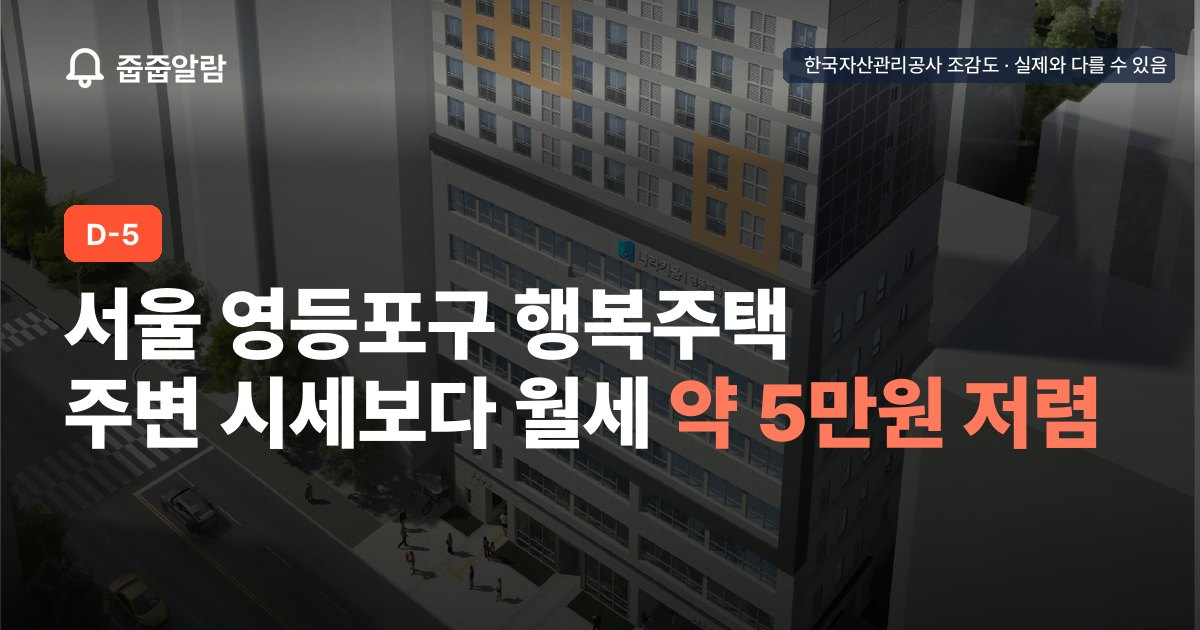
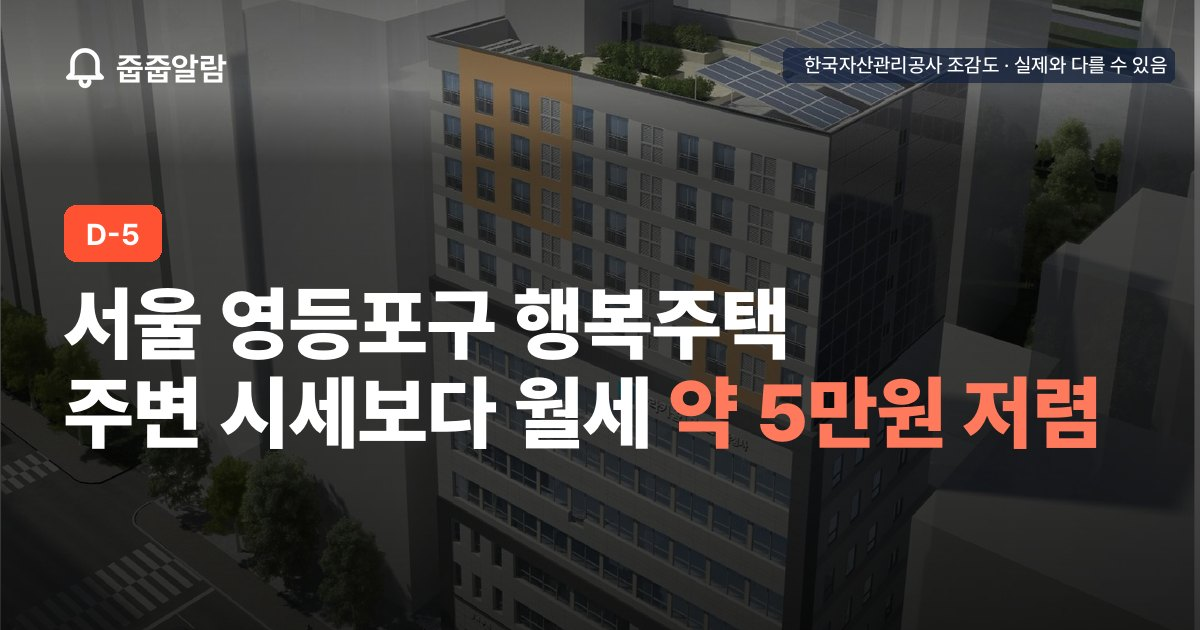
site: 예비입주자 공고 '공급 0세대' → '예비 모집', 영등포 표지 위치 조정
Claude-Session: https://claude.ai/code/session_01BX5Lyfw1Hj3UPpyFh8mqbq

diff --git a/site/public/apt/mh21471-1/index.html b/site/public/apt/mh21471-1/index.html
@@ -13,7 +13,7 @@
 <meta property="og:title" content="나라키움영등포복합청사 행복주택 21형 예비입주자 보증금·월세">
 <meta property="og:description" content="접수 11.9(월) ~ 11.13(금) · 보증금 4,650만원 · 월 22만5,000원 · 행복주택. 신청 자격·일정과 공식 공고 링크를 한 번에.">
 <meta property="og:url" content="https://jupjupalarm.com/apt/mh21471-1/">
-<meta property="og:image" content="https://jupjupalarm.com/apt/mh21471-1/og.jpg?v=54a65162">
+<meta property="og:image" content="https://jupjupalarm.com/apt/mh21471-1/og.jpg?v=1218aa4d">
 <meta property="og:image:width" content="1200">
 <meta property="og:image:height" content="630">
 <meta name="twitter:card" content="summary_large_image">
@@ -41,7 +41,7 @@
 </header>
 <main class="wrap page" id="main">
   <figure class="hero2">
-    <img class="hero-img" src="hero.webp" width="960" height="1071" alt="나라키움영등포복합청사 행복주택 21형 예비입주자 조감도" fetchpriority="high" decoding="async" style="object-position:center 55%">
+    <img class="hero-img" src="hero.webp" width="960" height="1071" alt="나라키움영등포복합청사 행복주택 조감도" fetchpriority="high" decoding="async" style="object-position:center 35%">
     <figcaption>이미지: 한국자산관리공사 조감도 · 실제와 다를 수 있음</figcaption>
   </figure>
   <div class="head">
@@ -58,7 +58,7 @@
   <div class="ticket" data-nx="upcoming">
     <dl class="tf num">
       <div><dt>임대보증금</dt><dd>4,650만원</dd></div>
-      <div><dt>공급</dt><dd>0세대</dd><dd class="s">21형 예비입주자 · 단지 전체 63세대</dd></div>
+      <div><dt>공급</dt><dd>예비 모집</dd><dd class="s">21형 예비입주자 · 단지 전체 63세대</dd></div>
       <div><dt>월 임대료</dt><dd>22만5,000원</dd></div>
     </dl>
     <script>document.querySelectorAll('.tf dd:not(.s)').forEach(function(e){var f=parseFloat(getComputedStyle(e).fontSize);while(e.scrollWidth>e.clientWidth+1&&f>12){f-=.5;e.style.fontSize=f+'px'}})</script>
@@ -82,7 +82,7 @@
       <dl class="facts num">
         <div><dt>접수</dt><dd><span class="ln"><time datetime="2026-11-09">11.9(월)</time></span><span class="ln">~ <time datetime="2026-11-13">11.13(금)</time></span></dd></div>
         <div><dt>임대보증금</dt><dd>4,650만원<small>21형 기준 (마이홈 공공데이터)</small></dd></div>
-        <div><dt>공급</dt><dd>0세대<small>21형 예비입주자 · 단지 전체 63세대</small></dd></div>
+        <div><dt>공급</dt><dd>예비 모집<small>21형 예비입주자 · 단지 전체 63세대</small></dd></div>
         <div><dt>월 임대료</dt><dd>22만5,000원<small>21형 기준 (마이홈 공공데이터)</small></dd></div>
       </dl>
 <div class="chips"><span class="chip key">월 22만5,000원</span><span class="chip">보증금 4,650만원</span><span class="chip">21형 예비입주자</span></div>      <p class="who">행복주택은 대상 계층별로 신청 자격과 소득·자산 기준이 따로 정해져 있어요. 이번 21형 예비입주자 모집의 대상 계층과 기준은 한국자산관리공사 공고문에서 확인하세요.</p>
@@ -129,7 +129,7 @@
         <caption>21형 보증금·월 임대료는 마이홈 공공데이터 기준이에요. 예비입주자 모집 인원은 공고문에서 확인하세요.</caption>
         <thead><tr><th scope="col" style="text-align:left">주택형</th><th scope="col">대상</th><th scope="col">공급</th><th scope="col">보증금 · 월세</th></tr></thead>
         <tbody>
-<tr><th scope="row">21형</th><td style="white-space:normal;text-align:left">예비입주자 (계층은 공고문 확인)</td><td><small>합계 0세대</small></td><td class="max">4,650만원<small>월 22만5,000원</small></td></tr>
+<tr><th scope="row">21형</th><td style="white-space:normal;text-align:left">예비입주자 (계층은 공고문 확인)</td><td><small>예비 모집</small></td><td class="max">4,650만원<small>월 22만5,000원</small></td></tr>
         </tbody>
       </table>
     </div>
@@ -340,7 +340,7 @@ as.forEach(function(a){var h=document.getElementById(a.getAttribute('href').slic
 document.querySelectorAll('[data-nx-to]').forEach(function(a){a.addEventListener('click',function(){var b=a.closest('[data-nx]');if(window.jjEv)jjEv('next_click',{to:a.dataset.nxTo,state:b?b.dataset.nx:''});});});
 </script>
 <script type="application/ld+json">
-{"@context":"https://schema.org","@graph":[{"@type":"BreadcrumbList","itemListElement":[{"@type":"ListItem","name":"홈","item":"https://jupjupalarm.com/","position":1},{"@type":"ListItem","name":"서울","item":"https://jupjupalarm.com/region/seoul/","position":2},{"@type":"ListItem","name":"나라키움영등포복합청사 행복주택 21형 예비입주자","position":3}]},{"@type":"RealEstateListing","@id":"https://jupjupalarm.com/apt/mh21471-1/#listing","name":"나라키움영등포복합청사 행복주택 21형 예비입주자 보증금·월세","url":"https://jupjupalarm.com/apt/mh21471-1/","description":"접수 11.9(월) ~ 11.13(금) · 보증금 4,650만원 · 월 22만5,000원 · 행복주택. 신청 자격·일정과 공식 공고 링크를 한 번에.","image":["https://jupjupalarm.com/apt/mh21471-1/og.jpg?v=54a65162"],"datePosted":"2026-10-28","about":{"@id":"https://jupjupalarm.com/apt/mh21471-1/#complex"},"validThrough":"2026-11-13"},{"@type":"ApartmentComplex","@id":"https://jupjupalarm.com/apt/mh21471-1/#complex","name":"나라키움영등포복합청사 행복주택","numberOfAccommodationUnits":0,"address":{"@type":"PostalAddress","addressCountry":"KR","addressRegion":"서울","addressLocality":"영등포구","streetAddress":"서울특별시 영등포구 버드나루로 112"}},{"@type":"Article","headline":"나라키움영등포복합청사 행복주택 21형 예비입주자","description":"접수 11.9(월) ~ 11.13(금) · 보증금 4,650만원 · 월 22만5,000원 · 행복주택. 신청 자격·일정과 공식 공고 링크를 한 번에.","datePublished":"2026-10-30T07:54:18+09:00","dateModified":"2026-11-04T11:25:11+09:00","image":["https://jupjupalarm.com/apt/mh21471-1/og.jpg?v=54a65162"],"mainEntityOfPage":"https://jupjupalarm.com/apt/mh21471-1/","about":{"@id":"https://jupjupalarm.com/apt/mh21471-1/#listing"},"author":{"@type":"Organization","name":"줍줍알람","url":"https://jupjupalarm.com/"},"publisher":{"@type":"Organization","name":"줍줍알람","url":"https://jupjupalarm.com/","logo":{"@type":"ImageObject","url":"https://jupjupalarm.com/icon-512.png"}}},{"@type":"FAQPage","mainEntity":[{"@type":"Question","name":"나라키움영등포복합청사 행복주택 보증금과 월세는?","acceptedAnswer":{"@type":"Answer","text":"21형 기준 임대보증금 4,650만원, 월 임대료 22만5,000원이에요(마이홈 공공데이터 기준)."}},{"@type":"Question","name":"나라키움영등포복합청사 행복주택 신청 자격은?","acceptedAnswer":{"@type":"Answer","text":"행복주택은 대상 계층별로 신청 자격과 소득·자산 기준이 따로 정해져 있어요. 이번 모집의 대상 계층과 기준은 한국자산관리공사 공고문에서 확인하세요(문의 02-6265-0620)."}},{"@type":"Question","name":"나라키움영등포복합청사 행복주택 당첨자 발표는 언제?","acceptedAnswer":{"@type":"Answer","text":"2027.3.5(금)이에요. 접수는 11.9(월) ~ 11.13(금)이에요."}},{"@type":"Question","name":"예비입주자는 바로 입주하나요?","acceptedAnswer":{"@type":"Answer","text":"아니요. 예비입주자는 당첨 뒤 빈집이 생길 때 순번에 따라 계약하는 방식이라 입주 시기가 정해져 있지 않아요."}}]}]}
+{"@context":"https://schema.org","@graph":[{"@type":"BreadcrumbList","itemListElement":[{"@type":"ListItem","name":"홈","item":"https://jupjupalarm.com/","position":1},{"@type":"ListItem","name":"서울","item":"https://jupjupalarm.com/region/seoul/","position":2},{"@type":"ListItem","name":"나라키움영등포복합청사 행복주택 21형 예비입주자","position":3}]},{"@type":"RealEstateListing","@id":"https://jupjupalarm.com/apt/mh21471-1/#listing","name":"나라키움영등포복합청사 행복주택 21형 예비입주자 보증금·월세","url":"https://jupjupalarm.com/apt/mh21471-1/","description":"접수 11.9(월) ~ 11.13(금) · 보증금 4,650만원 · 월 22만5,000원 · 행복주택. 신청 자격·일정과 공식 공고 링크를 한 번에.","image":["https://jupjupalarm.com/apt/mh21471-1/og.jpg?v=1218aa4d"],"datePosted":"2026-10-28","about":{"@id":"https://jupjupalarm.com/apt/mh21471-1/#complex"},"validThrough":"2026-11-13"},{"@type":"ApartmentComplex","@id":"https://jupjupalarm.com/apt/mh21471-1/#complex","name":"나라키움영등포복합청사 행복주택","numberOfAccommodationUnits":0,"address":{"@type":"PostalAddress","addressCountry":"KR","addressRegion":"서울","addressLocality":"영등포구","streetAddress":"서울특별시 영등포구 버드나루로 112"}},{"@type":"Article","headline":"나라키움영등포복합청사 행복주택 21형 예비입주자","description":"접수 11.9(월) ~ 11.13(금) · 보증금 4,650만원 · 월 22만5,000원 · 행복주택. 신청 자격·일정과 공식 공고 링크를 한 번에.","datePublished":"2026-10-30T07:54:18+09:00","dateModified":"2026-11-04T11:26:01+09:00","image":["https://jupjupalarm.com/apt/mh21471-1/og.jpg?v=1218aa4d"],"mainEntityOfPage":"https://jupjupalarm.com/apt/mh21471-1/","about":{"@id":"https://jupjupalarm.com/apt/mh21471-1/#listing"},"author":{"@type":"Organization","name":"줍줍알람","url":"https://jupjupalarm.com/"},"publisher":{"@type":"Organization","name":"줍줍알람","url":"https://jupjupalarm.com/","logo":{"@type":"ImageObject","url":"https://jupjupalarm.com/icon-512.png"}}},{"@type":"FAQPage","mainEntity":[{"@type":"Question","name":"나라키움영등포복합청사 행복주택 보증금과 월세는?","acceptedAnswer":{"@type":"Answer","text":"21형 기준 임대보증금 4,650만원, 월 임대료 22만5,000원이에요(마이홈 공공데이터 기준)."}},{"@type":"Question","name":"나라키움영등포복합청사 행복주택 신청 자격은?","acceptedAnswer":{"@type":"Answer","text":"행복주택은 대상 계층별로 신청 자격과 소득·자산 기준이 따로 정해져 있어요. 이번 모집의 대상 계층과 기준은 한국자산관리공사 공고문에서 확인하세요(문의 02-6265-0620)."}},{"@type":"Question","name":"나라키움영등포복합청사 행복주택 당첨자 발표는 언제?","acceptedAnswer":{"@type":"Answer","text":"2027.3.5(금)이에요. 접수는 11.9(월) ~ 11.13(금)이에요."}},{"@type":"Question","name":"예비입주자는 바로 입주하나요?","acceptedAnswer":{"@type":"Answer","text":"아니요. 예비입주자는 당첨 뒤 빈집이 생길 때 순번에 따라 계약하는 방식이라 입주 시기가 정해져 있지 않아요."}}]}]}
 </script>
 <script>
 (function(){

diff --git a/site/templates/apt.html b/site/templates/apt.html
@@ -41,7 +41,7 @@
       {% else %}
       <div><dt>{{ n.price_label }}</dt><dd>{{ n.max_price|won }}</dd><dd class="s">{{ n.max_type }} 기준</dd></div>
       {% endif %}
-      <div><dt>공급</dt><dd>{{ '{:,}'.format(n.units) }}{{ n.unit_word }}</dd>{% if n.units_note %}<dd class="s">{{ n.units_note }}</dd>{% endif %}</div>
+      <div><dt>공급</dt><dd>{% if n.units %}{{ '{:,}'.format(n.units) }}{{ n.unit_word }}{% else %}예비 모집{% endif %}</dd>{% if n.units_note %}<dd class="s">{{ n.units_note }}</dd>{% endif %}</div>
       {% if n.comp and n.comp.short and n.status in ('waiting', 'announced') %}
       {% set cr = n.comp.short.split(' · ')[-1] %}<div><dt>{{ '평균 경쟁률' if cr.startswith('평균 ') else '경쟁률' }}</dt>{% set cv = cr[3:] if cr.startswith('평균 ') else cr %}<dd{% if cv|length > 7 %} class="sm"{% endif %}>{{ cv|replace('대 1', '대 1') }}</dd></div>
       {% elif n.is_rental %}
@@ -109,7 +109,7 @@
         {% else %}
         <div><dt>{{ n.price_label }}</dt><dd>{{ n.max_price|won }}<small>{{ n.max_type }} 기준</small></dd></div>
         {% endif %}
-        <div><dt>공급</dt><dd>{{ '{:,}'.format(n.units) }}{{ n.unit_word }}{% if n.units_note %}<small>{{ n.units_note }}</small>{% endif %}</dd></div>
+        <div><dt>공급</dt><dd>{% if n.units %}{{ '{:,}'.format(n.units) }}{{ n.unit_word }}{% else %}예비 모집{% endif %}{% if n.units_note %}<small>{{ n.units_note }}</small>{% endif %}</dd></div>
         {% if n.comp and n.comp.short and n.status in ('waiting', 'announced') %}
         <div><dt>경쟁률</dt><dd>{{ n.comp.short.split(' · ')[-1] }}<small>{{ n.comp.short.split(' · ')[0] }}</small></dd></div>
         {% elif n.is_rental %}
@@ -342,7 +342,7 @@
         <caption>{{ n.rent_caption or '보증금·월 임대료는 공고문 기준. ‘공고문 참조’는 주택형·계층별로 금액이 달라 공고문 표를 확인하세요.' }}</caption>
         <thead><tr><th scope="col" style="text-align:left">주택형</th><th scope="col">대상</th><th scope="col">공급</th><th scope="col">보증금 · 월세</th></tr></thead>
         <tbody>
-        {% for m in n.rent_models %}<tr><th scope="row">{{ m.type }}</th><td style="white-space:normal;text-align:left">{{ m.target or '—' }}</td><td>{% if m.units %}{{ m.units }}세대{% else %}<small>합계 {{ n.units }}{{ n.unit_word or '세대' }}</small>{% endif %}</td><td class="max">{% if m.deposit %}{{ m.deposit|money }}<small>월 {{ m.monthly|money }}</small>{% else %}공고문 참조{% endif %}</td></tr>
+        {% for m in n.rent_models %}<tr><th scope="row">{{ m.type }}</th><td style="white-space:normal;text-align:left">{{ m.target or '—' }}</td><td>{% if m.units %}{{ m.units }}세대{% elif n.units %}<small>합계 {{ n.units }}{{ n.unit_word or '세대' }}</small>{% else %}<small>예비 모집</small>{% endif %}</td><td class="max">{% if m.deposit %}{{ m.deposit|money }}<small>월 {{ m.monthly|money }}</small>{% else %}공고문 참조{% endif %}</td></tr>
         {% endfor %}
         </tbody>
       </table>
